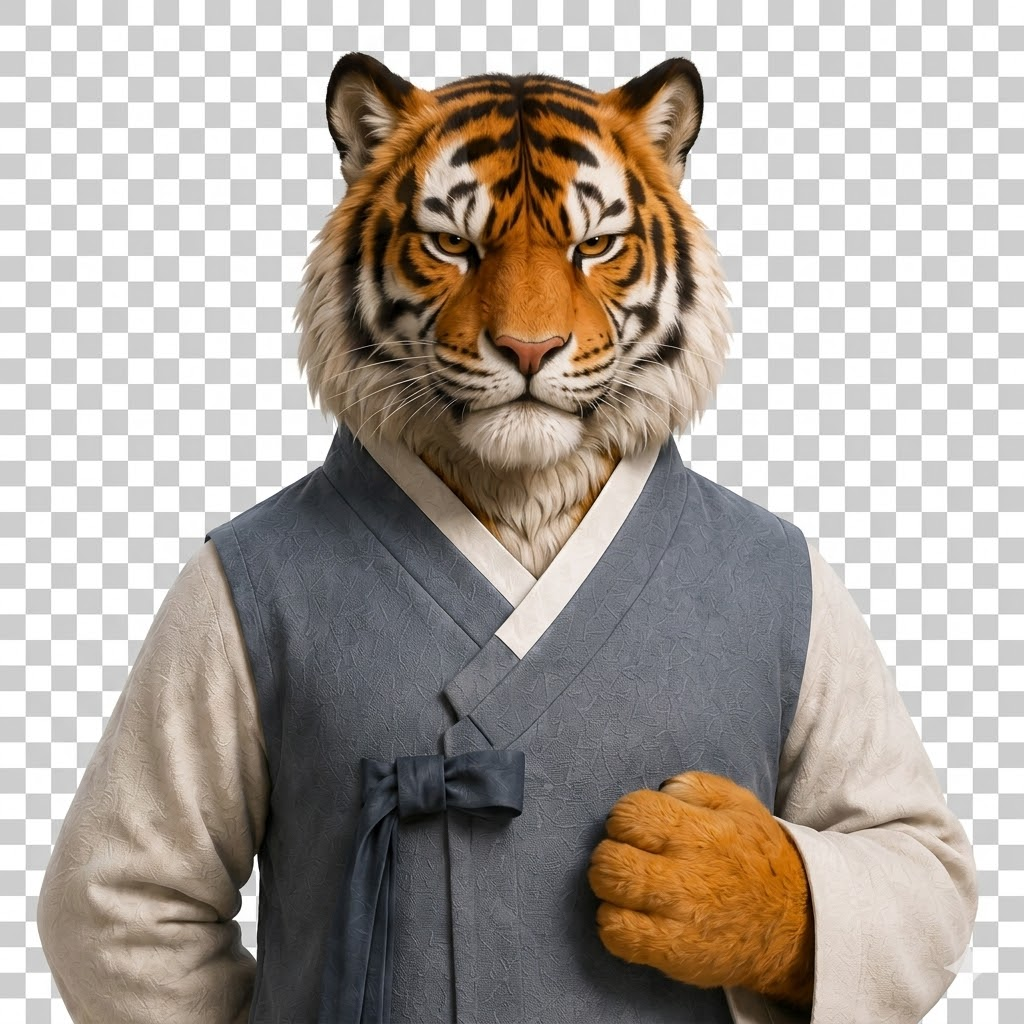
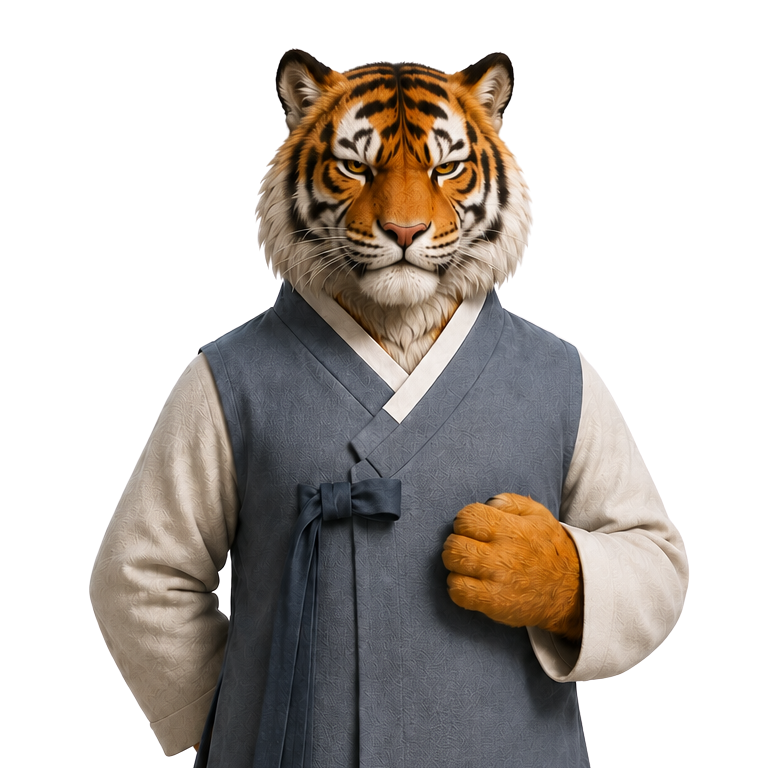
수정작업중

diff --git a/issueface/src/components/CountryCard.jsx b/issueface/src/components/CountryCard.jsx
@@ -54,8 +54,8 @@ function CountryCard({ countryCode, countryName, data }) {
 
   return (
     <div className="card p-5 flex flex-col gap-4 animate-slide-up overflow-hidden">
-      <div className="flex items-start gap-5">
-        <div className="flex-1 min-w-0 pt-1">
+      <div className="relative min-h-[320px]">
+        <div className="relative z-10 max-w-[45%] pt-1">
           <div className="flex items-start gap-3">
             {flagImage && (
               <img
@@ -79,18 +79,18 @@ function CountryCard({ countryCode, countryName, data }) {
           <p className={`mt-3 font-mono text-4xl font-bold leading-none ${moodClasses.number}`}>
             {formattedTone}
           </p>
-
-          <div className="mt-5">
-            <ToneGauge tone={data.tone} showValue={false} />
-          </div>
         </div>
 
-        <div className="w-36 sm:w-44 shrink-0 bg-parchment border border-border rounded-sm overflow-hidden">
+        <div className="absolute top-0 left-[56%] z-0 h-64 w-56 -translate-x-1/2 rounded-sm border border-border bg-parchment overflow-hidden">
           <img
             src={characterImage}
             alt={`${countryName} 캐릭터`}
-            className="w-full h-52 object-contain object-top"
+            className="h-full w-full object-contain object-top"
           />
+        </div>
+
+        <div className="absolute top-[272px] left-4 right-4">
+          <ToneGauge tone={data.tone} showValue={false} />
         </div>
       </div>
 

diff --git a/issueface/src/components/ToneGauge.jsx b/issueface/src/components/ToneGauge.jsx
@@ -8,7 +8,6 @@ function ToneGauge({ tone, showValue = true }) {
     <div className="space-y-2">
       <div className="flex justify-between text-xs font-body font-bold">
         <span className="text-accent">부정적</span>
-        <span className="text-muted">중립적</span>
         <span className="text-green-700">긍정적</span>
       </div>
       <div className="relative h-3 bg-parchment border border-border rounded-full overflow-hidden">
@@ -21,11 +20,13 @@ function ToneGauge({ tone, showValue = true }) {
           style={{ left: `calc(${pct}% - 6px)` }}
         />
       </div>
-      <div className={`flex items-center ${showValue ? 'justify-between' : 'justify-end'}`}>
-        {showValue && (
-          <span className="font-mono font-bold text-lg" style={{ color }}>{tone > 0 ? '+' : ''}{tone.toFixed(2)}</span>
-        )}
-      </div>
+      {showValue && (
+        <div className="flex items-center justify-between">
+          <span className="font-mono font-bold text-lg" style={{ color }}>
+            {tone > 0 ? '+' : ''}{tone.toFixed(2)}
+          </span>
+        </div>
+      )}
     </div>
   );
 }